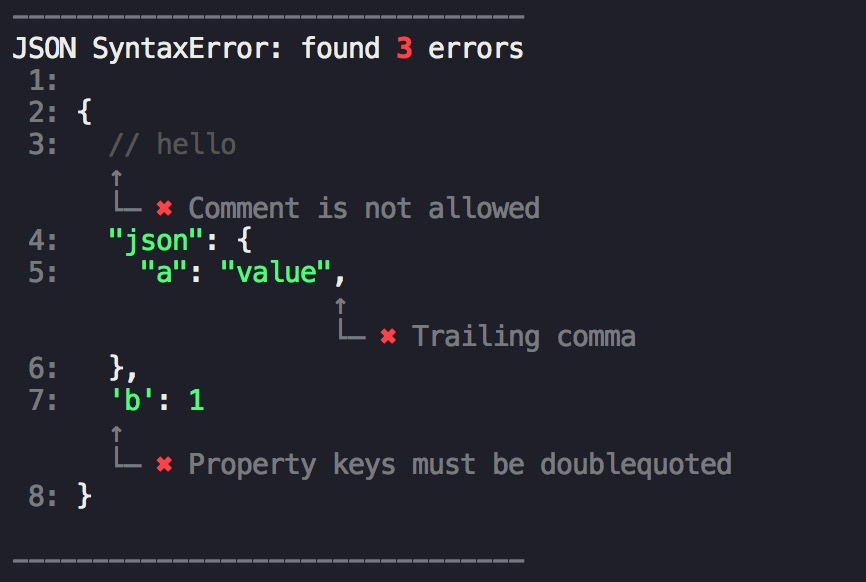
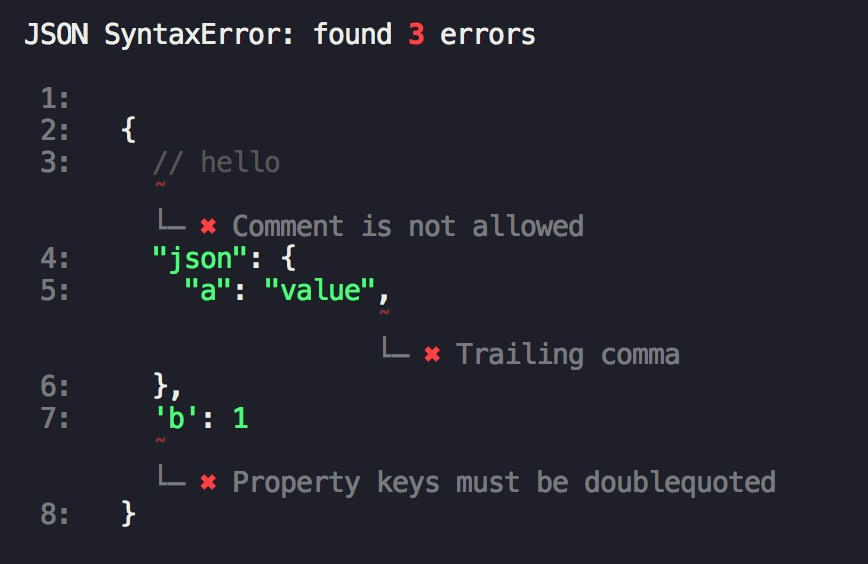
refactor: export lint and format separately
BREAKING CHANGE: api is rewrited

diff --git a/lib/locate.js b/lib/locate.js
@@ -1,4 +1,4 @@
-const chalk = require( 'chalk' )
+const colors = require( 'nanocolors' )
 const emphasize = require( 'emphasize' )
 
 function locate( source, locations ) {
@@ -18,15 +18,15 @@ function locate( source, locations ) {
     'js',
     source,
     {
-      comment: chalk.gray,
-      keyword: chalk.magenta,
-      built_in: chalk.cyan, // eslint-disable-line
-      string: chalk.green,
-      number: chalk.green,
-      literal: chalk.green,
-      'class': chalk.yellow, // eslint-disable-line
-      'function': chalk.reset.white, // eslint-disable-line
-      params: chalk.reset.white,
+      comment: colors.gray,
+      keyword: colors.magenta,
+      built_in: colors.cyan, // eslint-disable-line
+      string: colors.green,
+      number: colors.green,
+      literal: colors.green,
+      class: colors.yellow,
+      function: v => colors.reset( colors.white( v ) ),
+      params: v => colors.reset( colors.white( v ) ),
     }
   ).value.split( '\n' )
 
@@ -58,7 +58,7 @@ function locate( source, locations ) {
           let char = '|'
 
           if ( index === indicators.length - 1 ) {
-            char = '↑'
+            char = colors.red( '˜' )
           }
 
           const sep = {
@@ -94,30 +94,30 @@ function locate( source, locations ) {
 
         indicators.reverse()
 
-        const lineNo = chalk.dim( lineNum + ':' )
+        const lineNo = colors.dim( lineNum + ':' )
         const indentation = tabsToSpaces( formattedLines[ i ] )
         const display = i => {
           if ( i.severity ) {
-            return chalk.dim( i.content ) +
+            return colors.dim( i.content ) +
               `${
                 i.severity === 'warning' ?
-                  chalk.yellow.dim( '⚠' ) :
-                  chalk.red( '✖' )
-              } ` + chalk.dim( i.message )
+                  colors.yellow( colors.dim( '⚠' ) ) :
+                  colors.red( '✖' )
+              } ` + colors.dim( i.message )
           }
 
-          return chalk.dim( i.content )
+          return colors.dim( i.content )
         }
 
-        return chalk.bgBlack( `${ lineNo } ${ indentation } ` ) +
+        return colors.bgBlack( `${ lineNo } ${ indentation } ` ) +
           `\n${ indicators.map( display ).join( '\n' ) }`
       }
 
       if ( isNearErrorLine( frameStart + i + 1, locations ) ) {
-        const lineNo = chalk.dim( lineNum + ':' )
+        const lineNo = colors.dim( lineNum + ':' )
         const indentation = tabsToSpaces( formattedLines[ i ] )
 
-        return chalk.bgBlack( `${ lineNo } ${ indentation } ` )
+        return colors.bgBlack( `${ lineNo } ${ indentation } ` )
       }
 
       return ''

diff --git a/lib/index.js b/lib/index.js
@@ -1,15 +1,11 @@
 const jsonService = require( 'vscode-json-languageservice' )
-const chalk = require( 'chalk' )
+const colors = require( 'nanocolors' )
 const locate = require( './locate' )
 
 const jsonServiceHandle = jsonService.getLanguageService( {} )
 
 function lint( text = '', options = {} ) {
-  const {
-    reporter = 'pretty',
-    silent = false,
-    allowComments = false
-  } = options
+  const { allowComments = false } = options
 
   const textDocument = jsonService.TextDocument.create(
     Math.random() + '.json',
@@ -20,37 +16,38 @@ function lint( text = '', options = {} ) {
 
   const parsed = jsonServiceHandle.parseJSONDocument( textDocument )
 
-  const errors = parsed.syntaxErrors || []
   const comments = parsed.comments || []
+  const errors = normalizeErrors(
+    parsed.syntaxErrors || [],
+    allowComments ? [] : comments
+  )
 
   const result = {
     source: text,
-    errors: normalizeErrors( errors, allowComments ? [] : comments ),
+    errors,
     comments: normalizeComments( comments ),
-  }
-
-  if ( reporter === 'pretty' ) {
-    const reported = prettyReport( text, result )
-
-    if ( !silent && ( result.errors.length > 0 ) ) {
-      console.log()
-      console.log( chalk.dim( '-'.repeat( 32 ) ) )
-      const head = 'JSON SyntaxError: found ' +
-        chalk.red.bold( result.errors.length ) + ' errors'
-      console.log( head )
-      console.log( reported )
-      console.log()
-      console.log( chalk.dim( '-'.repeat( 32 ) ) )
-    }
-
-    return reported
-  }
-
-  if ( reporter === 'json' ) {
-    return result
+    codeframe: getCodeFrame( text, errors ),
   }
 
   return result
+}
+
+function format( result = {} ) {
+  const { codeframe } = result
+
+  let out = []
+
+  if ( result.errors.length > 0 ) {
+    out.push( '\n' )
+    const head = 'JSON SyntaxError: found ' +
+      colors.red( colors.bold( result.errors.length ) ) + ' errors'
+    out.push( head )
+    out.push( '\n\n' )
+    out.push( codeframe )
+    out.push( '\n' )
+  }
+
+  return out.join( '' )
 }
 
 function normalizeErrors( errors = [], comments = [] ) {
@@ -88,7 +85,7 @@ function normalizeComments( comments = [] ) {
   } )
 }
 
-function prettyReport( text, { errors = [] } = {} ) {
+function getCodeFrame( text, errors ) {
   if ( errors.length === 0 ) {
     return ''
   }
@@ -96,4 +93,5 @@ function prettyReport( text, { errors = [] } = {} ) {
   return locate( text, errors )
 }
 
-module.exports = lint
+exports.lint = lint
+exports.format = format

diff --git a/test.js b/test.js
@@ -1,20 +1,11 @@
-const lint = require( './' )
+const { lint, format } = require( './' )
 
-test( 'lint', () => {
-  const errors = lint( `
-    {
-      // hello
-      "json": {
-        "a": "value",
-      },
-      'b': 1
-    }
-  ` )
-
-  expect( typeof errors ).toBe( 'string' )
+test( 'lint and format is defined', () => {
+  expect( typeof lint ).toBe( 'function' )
+  expect( typeof format ).toBe( 'function' )
 } )
 
-test( 'lint - reporter json', () => {
+test( 'lint - basic', () => {
   const string = `
     {
       // hello
@@ -24,17 +15,19 @@ test( 'lint - reporter json', () => {
       'b': 1
     }
   `
-  const result = lint( string, {
-    reporter: 'json'
-  } )
+  const result = lint( string )
 
   expect( typeof result ).toBe( 'object' )
   expect( result.source ).toBe( string )
   expect( result.errors.length ).toBe( 3 )
   expect( result.comments.length ).toBe( 1 )
+  expect( typeof result.codeframe ).toBe( 'string' )
+  
+  const formatted = format( result )
+  expect( typeof formatted ).toBe( 'string' )
 } )
 
-test( 'lint - reporter json', () => {
+test( 'lint - allowComments', () => {
   const string = `
     {
       // hello
@@ -45,14 +38,12 @@ test( 'lint - reporter json', () => {
     }
   `
   const result = lint( string, {
-    reporter: 'json',
     allowComments: true
   } )
   
-  console.log( result.comments )
-
   expect( typeof result ).toBe( 'object' )
   expect( result.source ).toBe( string )
   expect( result.errors.length ).toBe( 2 )
   expect( result.comments.length ).toBe( 1 )
+  expect( typeof result.codeframe ).toBe( 'string' )
 } )

diff --git a/README.md b/README.md
@@ -1,10 +1,18 @@
 # jsonlint
 
-[![Node.js CI status](https://github.com/fengzilong/jsonlint/workflows/Node.js%20CI/badge.svg)](https://github.com/fengzilong/jsonlint/actions) [![npm](https://img.shields.io/npm/v/@biu/jsonlint.svg)](https://www.npmjs.com/package/@biu/jsonlint)
+[![Node.js CI status](https://github.com/fengzilong/jsonlint/workflows/Node.js%20CI/badge.svg)](https://github.com/fengzilong/jsonlint/actions)
+![npm downloads](https://img.shields.io/npm/dm/@biu/jsonlint)
+[![npm](https://img.shields.io/npm/v/@biu/jsonlint.svg)](https://www.npmjs.com/package/@biu/jsonlint)
 
-lint your json, report all errors at once
+# Features
 
-<img align="center" width="400px" src="./screenshot.jpg" />
+- ⚔ Lint all errors at once
+- 🌈Human-friendly, intuitive message to stdout
+- 🚀Smaller than ESLint
+
+# Screenshot
+
+<img align="center" width="500px" src="./screenshot.jpg" />
 
 # Installation
 
@@ -23,49 +31,40 @@ yarn add @biu/jsonlint
 # API
 
 ```js
-const lint = require( '@biu/jsonlint' )
+const { lint, format } = require( '@biu/jsonlint' )
 
-lint( string, options )
+const result = lint( string, options )
+const prettied = format( result )
+
+console.log( result.codeframe )
+// or
+// console.log( prettied )
 ```
 
-### string
-
-Type: `String`
-
-json string
-
-### options.reporter
-
-Type: `String`
-
-Default: `'pretty'`
-
-Values: `'pretty' | 'json'`
-
-If you use `json` reporter, the return value looks like:
+`result` looks like
 
 ```js
 {
   source: '', // source code
   errors: [], // with keys: `{ line, column, message, severity }`
   comments: [], // with keys: `{ start: { line, column }, end: { line, column } }`
+  codeframe: '', // codeframe with error locations
 }
 ```
 
-### options.silent
+`prettied` looks like [Screenshot](#screenshot)
 
-Type: `Boolean`
+You can log message to stdout by using `console.log( result.codeframe )` or `console.log( prettied )`
 
-Default: `false`
+### string
 
-By default it will log all errors to your console when using `pretty` reporter, if you want to disable this behavior, set `silent` to `true`
+Type: `String`
 
 ### options.allowComments
 
-By default it will report comment errors(in standard json syntax, comments is not allowed), if you want comment errors to be ignored, set `allowComments` to `true`
+By default it will report comments as error, if you want to remove comment from errors, just set `allowComments` to `true`
 
-
-# Why not try/catch + JSON.parse
+# Difference with `try/catch + JSON.parse`
 
 `JSON.parse` is not fault tolerant, so it cannot continue after seeing first error, while in this library we use a fault tolerant parser inside to avoid this situation
 
